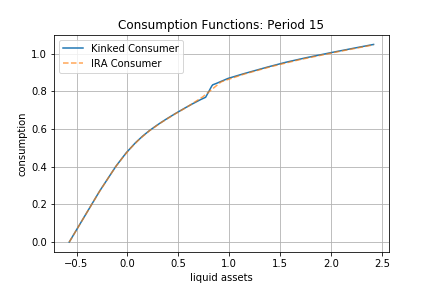
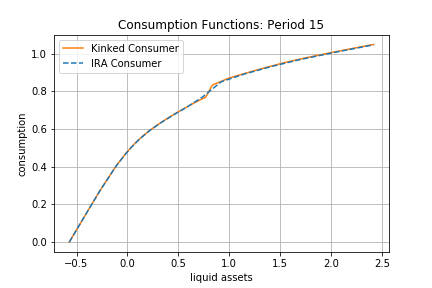
updated colors

diff --git a/HARK/ConsumptionSaving/ConsIRAModelVsConsIndShockModel.py b/HARK/ConsumptionSaving/ConsIRAModelVsConsIndShockModel.py
@@ -1826,7 +1826,7 @@ def main():
     do_simulation = True
     
     # Make and solve an example IRA consumer
-    IRAexample = IRAConsumerType(**Params.init_IRA_30_comp)
+    IRAexample = IRAConsumerType(**Params.init_IRA_30_simp)
     IRAexample.cycles = 1 # Make this consumer live a sequence of periods
                           # exactly once
                           
@@ -1899,8 +1899,8 @@ def main():
         x = mRange[str(period)]
         y1 = cKinked[str(period)]
         y2 = cIRA[str(period)]
-        plt.plot(x,y1,label='Kinked Consumer')
-        plt.plot(x,y2,'--',label='IRA Consumer')
+        plt.plot(x,y1,'C1',label='Kinked Consumer')
+        plt.plot(x,y2,'C0--',label='IRA Consumer')
         plt.xlabel('liquid assets')
         plt.ylabel('consumption')
         plt.title('Consumption Functions: Period ' + str(period))
